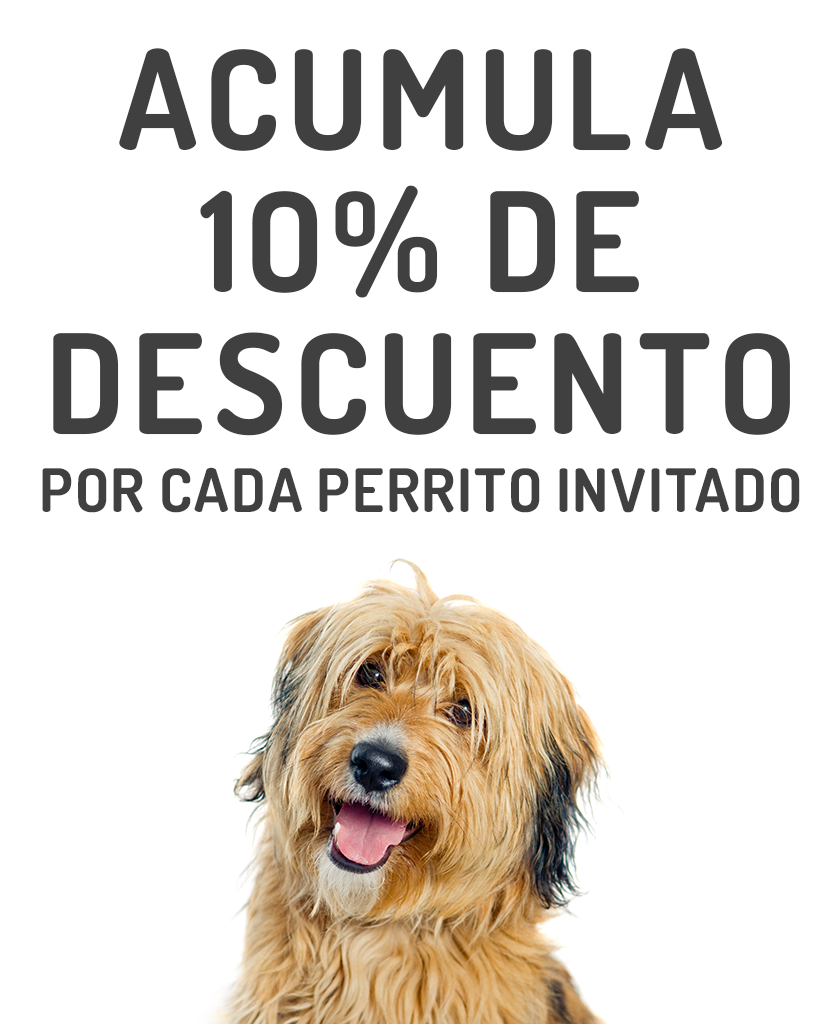
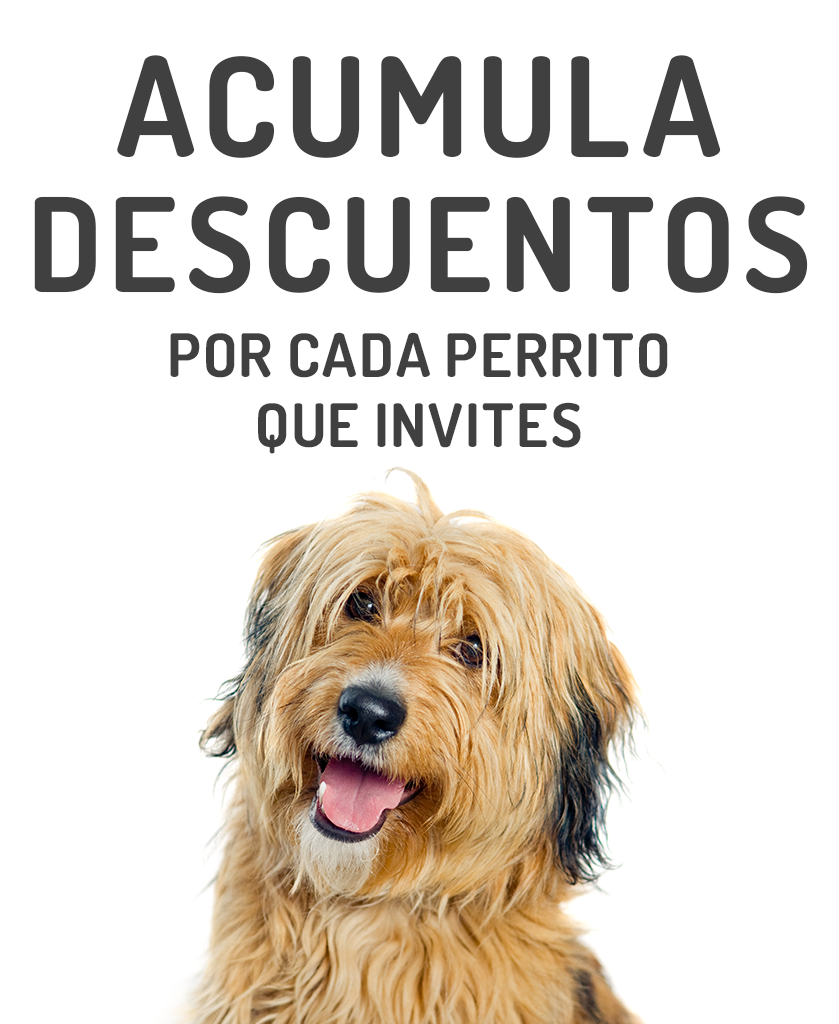
Ajustes martes 5 - publicacion

diff --git a/index.html b/index.html
@@ -130,13 +130,13 @@
 				   <path class="slide__overlay-path" d="M0,0 150,0 500,405 0,405" />
 				</svg>
 				<div class="slide__text">
-				   <h1 class="slide__text-heading">Paseamos a tu mascota</h1>
-				   <div class="hidden-sm hidden-xs">
-					  <p class="lead">Mantenla sana y feliz aún cuando no tengas tiempo</p>
+				   <h1 class="slide__text-heading">para el bienestar de tu perrito</h1>
+				   <!--<div class="hidden-sm hidden-xs">
+					  <p class="lead"></p>
 					  <div class="page-scroll">
-						 <a href="#about" class="btn btn-default">conoce más</a>
+						 <a href="#about" class="btn btn-default">ver más</a>
 					  </div>
-				   </div>
+				   </div>-->
 				</div>
 			 </div>
 		  </div>
@@ -148,11 +148,11 @@
 				   <path class="slide__overlay-path" d="M0,0 150,0 500,405 0,405" />
 				</svg>
 				<div class="slide__text">
-				   <h1 class="slide__text-heading">Veterinario a domicilio</h1>
+				   <h1 class="slide__text-heading">Vamos a pasear</h1>
 				   <div class="hidden-sm hidden-xs">
-					  <p class="lead">Vacunas, controles y más directo a tu hogar</p>
+					  <p class="lead">Mantenla sana y feliz aún cuando no tengas tiempo</p>
 					  <div class="page-scroll">
-						 <a href="#contact" class="btn btn-default">Consultar</a>
+						 <a href="#about" class="btn btn-default">ver más</a>
 					  </div>
 				   </div>
 				</div>
@@ -166,18 +166,18 @@
 				   <path class="slide__overlay-path" d="M0,0 150,0 500,405 0,405" />
 				</svg>
 				<div class="slide__text">
-				   <h1 class="slide__text-heading">Educador Canino</h1>
+				   <h1 class="slide__text-heading">10% dcto en plan de 12 paseos</h1>
 				   <div class="hidden-sm hidden-xs">
-					  <p class="lead">Esencial para una buena convivencia con tu mascota</p>
+					  <p class="lead">Si tienes 2 o más perritos te regalamos 10% de dcto por cada uno</p>
 					  <div class="page-scroll">
-						 <a href="#contact" class="btn btn-default">Consultar</a>
+						 <a href="#offers" class="btn btn-default">ver más</a>
 					  </div>
 				   </div>
 				</div>
 			 </div>
 		  </div>
-		  <!-- Slide 4 -->
-		  <div class="slide slide-3">
+		  <!-- Slide 4
+			<div class="slide slide-3">
 			 <div class="slide__bg"></div>
 			 <div class="slide__content">
 				<svg class="slide__overlay" viewBox="0 0 720 405" preserveAspectRatio="xMaxYMax slice">
@@ -192,7 +192,7 @@
 					  </div>
 				   </div>
 				</div>
-			 </div>
+			</div>-->
 		</div>
 	   </div>
 	</div>
@@ -294,8 +294,7 @@
 				<!-- Navigation -->
 				<ul class="nav nav-pills">
 				   <li class="active"><a href="#pane1" data-toggle="tab">Nuestros paseos</a></li>
-				   <li><a href="#pane2" data-toggle="tab">Motivación</a></li>
-				   <li><a href="#pane3" data-toggle="tab">Equipo</a></li>
+				   <li><a href="#pane2" data-toggle="tab">Nuestra motivación</a></li>
 				</ul>
 			 </div>
 		  </div>
@@ -308,7 +307,7 @@
 				   <div class="row">
 					  <div class="col-md-12 col-sm-12">
 						 <div class="col-lg-7 col-md-6 col-sm-12 res-margin wow fadeInRight" data-wow-delay="0.2s">
-							<h3>Cuidamos de tu mejor amigo</h3>
+							<h3>Lo paseamos con el mismo cuidado y cariño que tù</h3>
 							<p>¡Hola! Somos Canclan y queremos ver a tu perro feliz, sano y con ganas de jugar. 
 								Saldremos a pasear con todo tipo de clima, ya que para nuestros amigos peludos la aventura no puede esperar.
 							</p>
@@ -328,7 +327,7 @@
 							<div class="icon">
 							   <div class="image"><span class="flaticon-pets19"></span></div>
 							   <h5>Garantía Veterianria</h5>
-							   <p>Cubrimos accidentes simples como que un perro lo muerda o dañe su pata al caminar.</p>
+							   <p>Cubrimos accidentes simples como que un perro lo muerda o le pase algo durante el trayecto de paseo.</p>
 							</div>
 						 </div>
 					  </div>
@@ -346,7 +345,7 @@
 							<div class="icon">
 							   <div class="image"><span class="flaticon-pets2"></span></div>
 							   <h5>Reagenda tus paseos</h5>
-							   <p>Puedes cambiar tu paseo con hasta 24 horas de anticipación, cuantas veces quieras.</p>
+							   <p>Si un dìa de Lluvia, prefieres que tu perro no salga de paseo, Ese paseo no lo pierdes, lo reagendaremos. </p>
 							</div>
 						 </div>
 					  </div>
@@ -359,7 +358,7 @@
 				  <div class="row">
 				   <div class="col-lg-6 col-md-6 col-sm-12 res-margin">
 					<h3>Motivación</h3>
-					<p>Vamos a brindar una mejor calidad de vida a las mascotas de Puerto Varas, permitiéndoles ejercitar su musculatura, acceder a atención médica y accesorios de calidad. CANCLAN quiere llevar esta posibilidad a las mascotas de quienes trabajan y llegan cansados a casa.
+					<p>Vamos a brindar una mejor calidad de vida a las mascotas de Puerto Varas, permitiéndoles ejercitar su musculatura, acceder a atención veterinaria a domicilio y y a planes de educaciòn canina. CANCLAN quiere llevar esta posibilidad a los perritos de quienes trabajan y llegan cansados a casa y aquellas familias que por falta de tiempo podemos apoyar.
 					</p>
 
 					<p>¿Sabías que a tu perro una rutina de paseos semanales le aporta muchos beneficios? Estara menos ansioso y dormira mejor. Mejorara su salud fisica y mental al estimular sus sentidos y cambiar la rutina. 
@@ -375,62 +374,6 @@
 				  </div>
 				</div><!-- / Panel 2 ends -->
 				
-				<!-- Panel  3 -->
-				<div id="pane3" class="paneltab tab-pane fade text-center">
-				 <div class="row">
-				   <h3>Conoce a nuestro equipo</h3>
-				   <!-- Item 1 -->
-				   <div class="team">
-					  <div class="col-md-3 col-sm-6">
-						 <div class="img-wrapper">
-							<img src="img/team1.jpg" alt="" class="img-responsive"/>
-						 </div>
-						 <!-- Caption -->
-						 <div class="caption-team">
-							<h5>Sanda </h5>
-							<span>Fundadora</span>
-							<p>Amante de los animales, en especial de Odin y Quila. Amplia experiencia en empresas.</p>
-						 </div>
-					  </div>
-					  <!-- Item 2 -->
-					  <div class="col-md-3 col-sm-6">
-						 <div class="img-wrapper">
-							<img src="img/team2.jpg" alt="" class="img-responsive"/>
-						 </div>
-						 <!-- Caption -->
-						 <div class="caption-team">
-							<h5>John</h5>
-							<span>Entrenador</span>
-							<p>15 años de experiencia como domador de leones, cocodrilos y perros chiquitos que no muerden.</p>
-						 </div>
-					  </div>
-					  <!-- item 3 -->
-					  <div class="col-md-3 col-sm-6">
-						 <div class="img-wrapper">
-							<img src="img/team3.jpg" alt="" class="img-responsive"/>
-						 </div>
-						 <!-- Caption -->
-						 <div class="caption-team">
-							<h5>Nancy</h5>
-							<span>Veterinaria</span>
-							<p>Especialista en animales domésticos egresada de la universidad de Puerto Montt</p>
-						 </div>
-					  </div>
-					  <!-- Item 4 -->
-					  <div class="col-md-3 col-sm-6">
-						 <div class="img-wrapper">
-							<img src="img/team4.jpg" alt="" class="img-responsive"/>
-						 </div>
-						 <!-- Caption -->
-						 <div class="caption-team">
-							<h5>Lucho</h5>
-							<span>Paseador</span>
-							<p>Psicólogo con talento especial para calmar a los animales y hacerlos pasar un buen día. </p>
-						 </div>
-					  </div>
-				   </div>
-				 </div><!-- /container-->
-			   </div><!-- /panel 3 ends -->
 			</div><!-- /.tab-content -->
 		  </div><!-- /.tabbable -->
 	   </div><!-- /container-->
@@ -539,8 +482,8 @@
 				   </div>
 				   <div class="plan-list">
 					  <ul>
-						 <li>1 paseo de una hora</li>
-						 <li>Veterinario a domicilio</li>
+						 <li>1 paseo de 60 min</li>
+						 <li>Garantía Veterinaria</li>
 						 <li>Reporte vía whatsapp</li>
 						 <li>10% Dcto en tu proxima compra</li>
 					  </ul>
@@ -564,8 +507,8 @@
 				   </div>
 				   <div class="plan-list">
 					  <ul>
-						 <li>6 paseo de una hora</li>
-						 <li>Veterinario a domicilio</li>
+						 <li>6 paseos de 60 min</li>
+						 <li>Garantía Veterinaria</li>
 						 <li>Reporte vía whatsapp</li>
 						 <li>Reagenda dentro del mes</li>						 
 					  </ul>
@@ -588,8 +531,8 @@
 				   </div>
 				   <div class="plan-list">
 					  <ul>
-						<li>12 paseo de una hora</li>
-						<li>Veterinario a domicilio</li>
+						<li>12 paseos de 60 min</li>
+						<li>Garantía Veterinaria</li>
 						<li>Reporte vía whatsapp</li>
 						<li>Reagenda dentro del mes</li>		
 					  </ul>
@@ -770,8 +713,8 @@
 				   </div>
 				   <div class="col-sm-7">
 					  <div class="media-body">
-						 <h4>Ganas tu y tu referido <span class="label label-default">10% OFF</span></h4>
-						 <p>Invita a tus amigos y obtén 10% de descuento acumjlable por cada perro que inscriban en cualquiera de los planes de paseo mensual. tu referido tambien gana 10% de descuento en su primer mes para cada perro.
+						 <h4>Ganas tu y tu referido <span class="label label-default">5% y 10% OFF</span></h4>
+						 <p>Invita a tus amigos y obtén descuentos acumulables por cada perro que inscriban en los planes de paseo mensual. 5% por cada plan de 6 paseos y 10% por cada plan de 12 paseos.
 						 </p>
 					  </div>
 				   </div>
@@ -784,8 +727,8 @@
 				   </div>
 				   <div class="col-sm-7">
 					  <div class="media-body">
-						 <h4>Pasea a todos tus perros <span class="label label-default">30% OFF</span></h4>
-						 <p>Si tienes dos o más perros te regalamos 30% de descuento en el total del mes. Válido solo para clientes nuevos durante su primer mes, contratando hasta el 31 de Abril.
+						 <h4>¡Paseos para todos tus perros!<span class="label label-default">10% a 40% OFF</span></h4>
+						 <p>Si tienes 2 o más perritos te regalamos 10% de dcto por cada uno en tu plan de 12 paseos. Hasta un máximo de 40% durante un mes. Válido para clientes nuevos que  contraten hasta el 30 de abril. 
 						 </p>
 					  </div>
 				   </div>

diff --git a/css/style.css b/css/style.css
@@ -338,7 +338,6 @@ ul.social-list li a i {
 	height: 100%;
 	cursor: all-scroll;
 	margin-top: 50px;
-	max-height: 950px;
 }
 
 .slider {
@@ -517,7 +516,7 @@ ul.slider-pagi {padding-left:0px;}
 
 .slide:nth-child(1) .slide__bg {
   left: 0;
-  background-image: url(../img/Hero_2_Paseos.jpg);
+  background-image: url(../img/Hero_1.jpg);
 }
 
 /* slide2 */
@@ -528,7 +527,7 @@ ul.slider-pagi {padding-left:0px;}
 
 .slide:nth-child(2) .slide__bg {
   left: -50%;
-  background-image: url(../img/Hero_3_Vet.jpg);
+  background-image: url(../img/Hero_2.jpg);
 }
 
 /* slide3 */
@@ -539,7 +538,7 @@ ul.slider-pagi {padding-left:0px;}
 
 .slide:nth-child(3) .slide__bg {
   left: -100%;
-  background-image: url(../img/Hero_4_Entrenador.jpg);
+  background-image: url(../img/Hero_3.jpg);
 }
 
 /* slide4 */
@@ -550,7 +549,7 @@ ul.slider-pagi {padding-left:0px;}
 
 .slide:nth-child(4) .slide__bg {
   left: -150%;
-  background-image: url(../img/Hero_5_Guarderia.jpg);
+  background-image: url(../img/Hero_4.jpg);
 }
 
 
